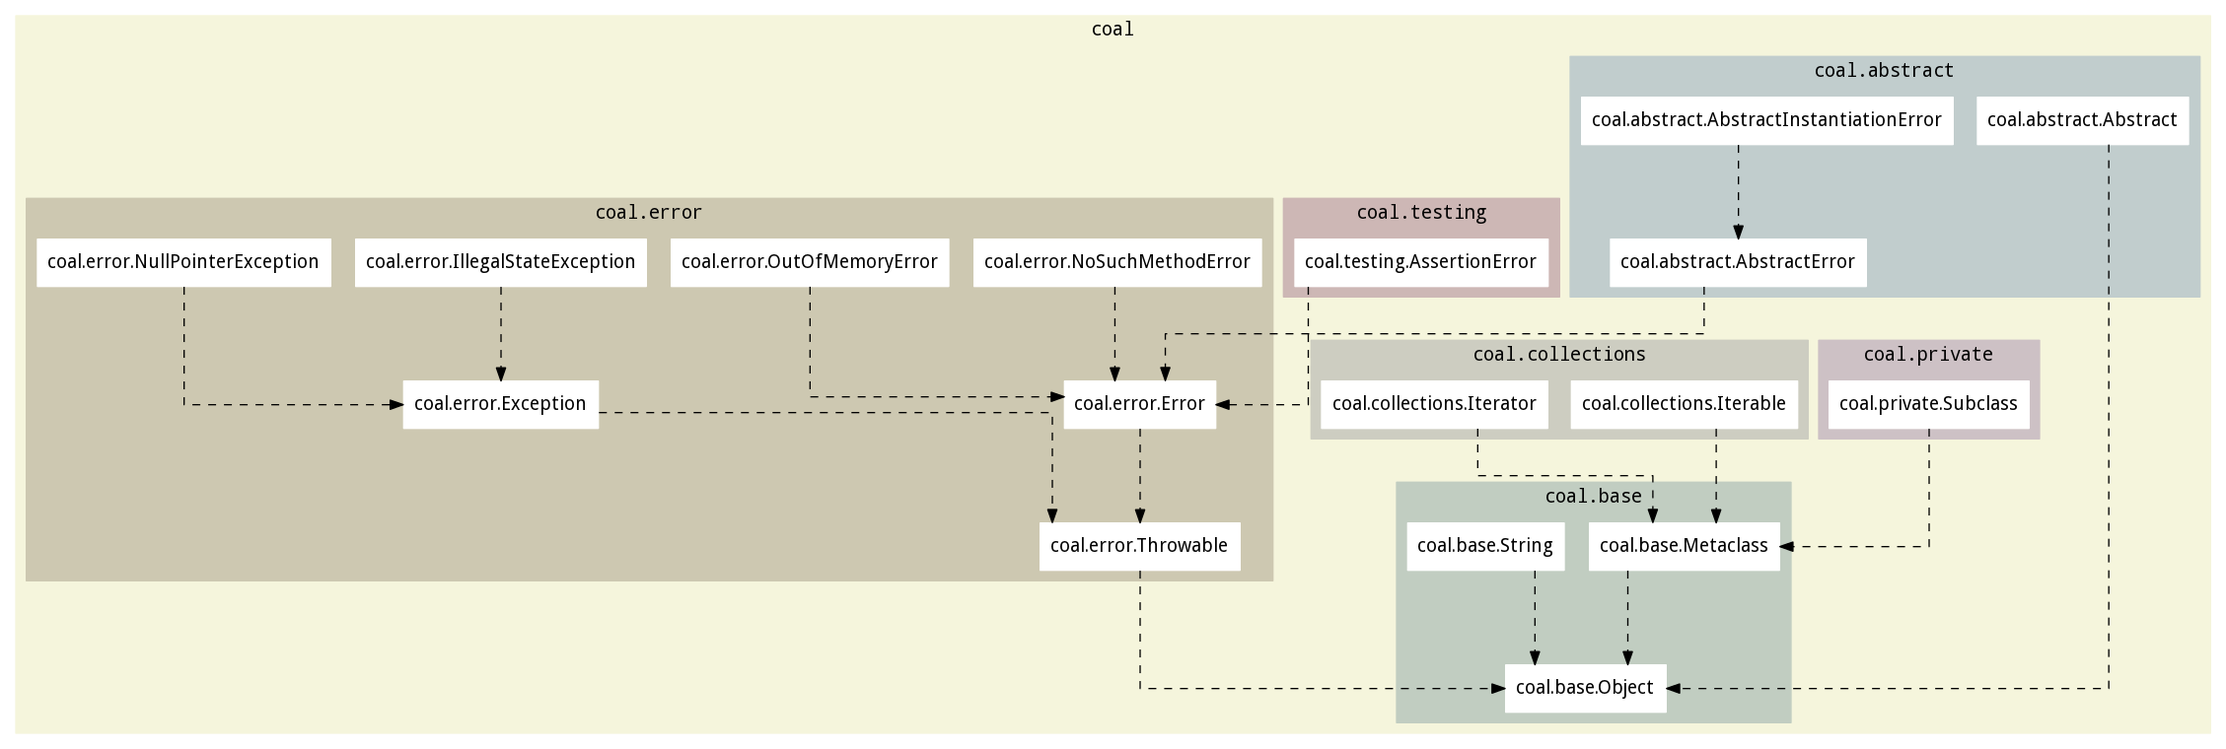
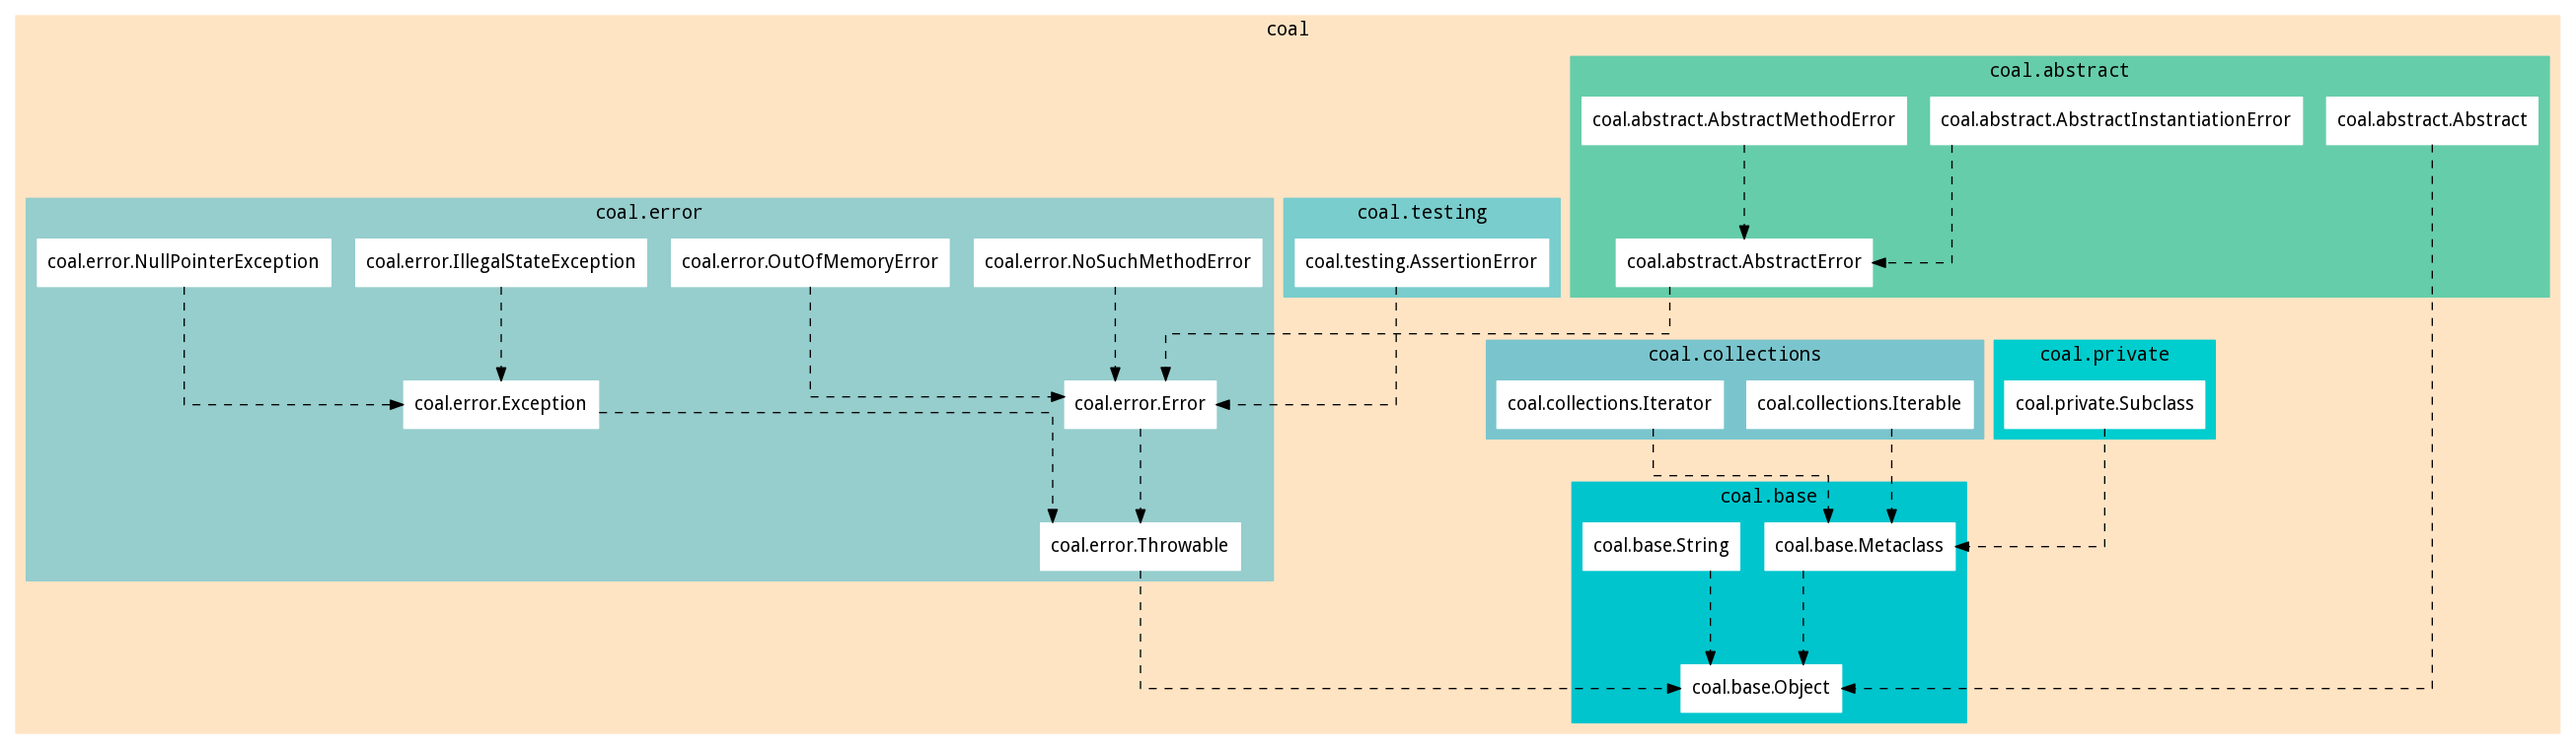
Added another error to abstract.

diff --git a/coal/abstract/AbstractMethodError.h b/coal/abstract/AbstractMethodError.h
@@ -1,0 +1,42 @@
+/*
+ * coal - An object oriented general purpose library for GNU-C
+ * Copyright (C) 2012 Truls Edvard Stokke
+ *
+ * This library is free software; you can redistribute it and/or
+ * modify it under the terms of the GNU Lesser General Public
+ * License as published by the Free Software Foundation; either
+ * version 2.1 of the License, or (at your option) any later version.
+ *
+ * This library is distributed in the hope that it will be useful,
+ * but WITHOUT ANY WARRANTY; without even the implied warranty of
+ * MERCHANTABILITY or FITNESS FOR A PARTICULAR PURPOSE.  See the GNU
+ * Lesser General Public License for more details.
+ *
+ * You should have received a copy of the GNU Lesser General Public
+ * License along with this library; if not, write to the Free Software
+ * Foundation, Inc., 51 Franklin Street, Fifth Floor, Boston, MA  02110-1301  USA
+ */
+
+#ifndef COAL_ABSTRACT_ABSTRACTMETHODERROR_H
+#define COAL_ABSTRACT_ABSTRACTMETHODERROR_H
+
+#include <coal/abstract/AbstractError.h>
+
+/**
+ * coal_abstract_AbstractMethodError
+ *
+ * Error that indicates that an attempt was made to
+ * call an abstract method.
+ *
+ * @extends coal_abstract_AbstractError
+ * @constructor takes a variable amount of arguments
+ * @param (const char *) printf-like format string
+ * @param (...) printf-like arguments
+ */
+coal_cfunspec val coal_abstract_AbstractMethodError (void) coal_funattr_const;
+
+#ifdef COAL_ABSTRACT_NAMESPACE_POLLUTE
+# define AbstractMethodError() coal_error_AbstractMethodError()
+#endif
+
+#endif /* COAL_ABSTRACT_ABSTRACTMETHODERROR_H */

diff --git a/coal/abstract/AbstractMethodError/AbstractMethodError.c b/coal/abstract/AbstractMethodError/AbstractMethodError.c
@@ -1,0 +1,28 @@
+/*
+ * coal - An object oriented general purpose library for GNU-C
+ * Copyright (C) 2012 Truls Edvard Stokke
+ *
+ * This library is free software; you can redistribute it and/or
+ * modify it under the terms of the GNU Lesser General Public
+ * License as published by the Free Software Foundation; either
+ * version 2.1 of the License, or (at your option) any later version.
+ *
+ * This library is distributed in the hope that it will be useful,
+ * but WITHOUT ANY WARRANTY; without even the implied warranty of
+ * MERCHANTABILITY or FITNESS FOR A PARTICULAR PURPOSE.  See the GNU
+ * Lesser General Public License for more details.
+ *
+ * You should have received a copy of the GNU Lesser General Public
+ * License along with this library; if not, write to the Free Software
+ * Foundation, Inc., 51 Franklin Street, Fifth Floor, Boston, MA  02110-1301  USA
+ */
+
+#include <coal/private/classes/Subclass.h>
+#include <coal/private/library.h>
+#include <coal/private/virtual_methods.h>
+
+#include <coal/abstract/AbstractError.h>
+
+ExceptionDefinitionTemplate(coal_abstract_AbstractMethodError,
+			    LIBRARY_STR ".abstract.AbstractMethodError",
+			    coal_abstract_AbstractError())
